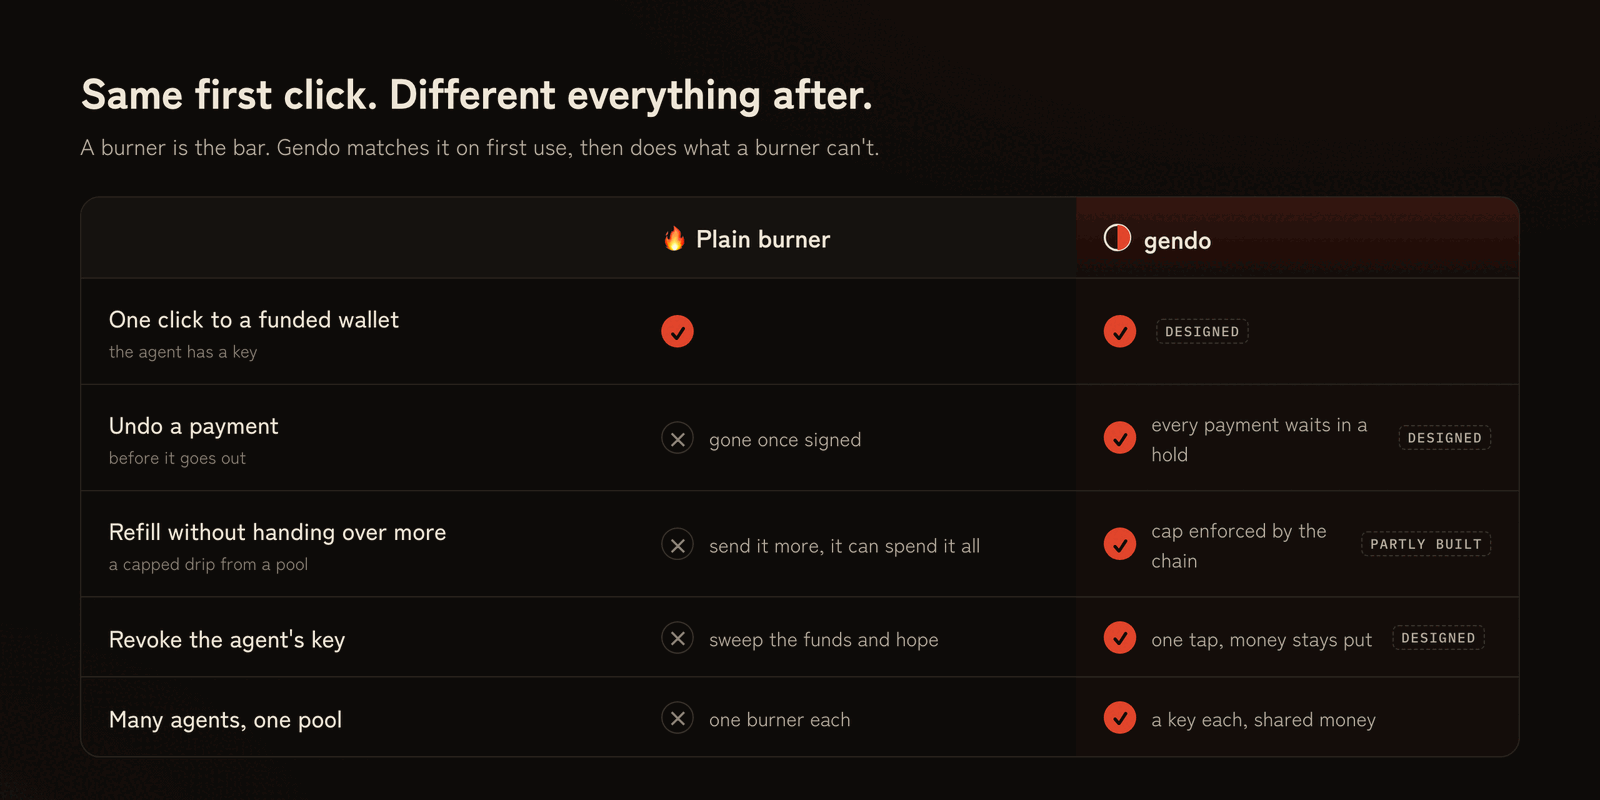
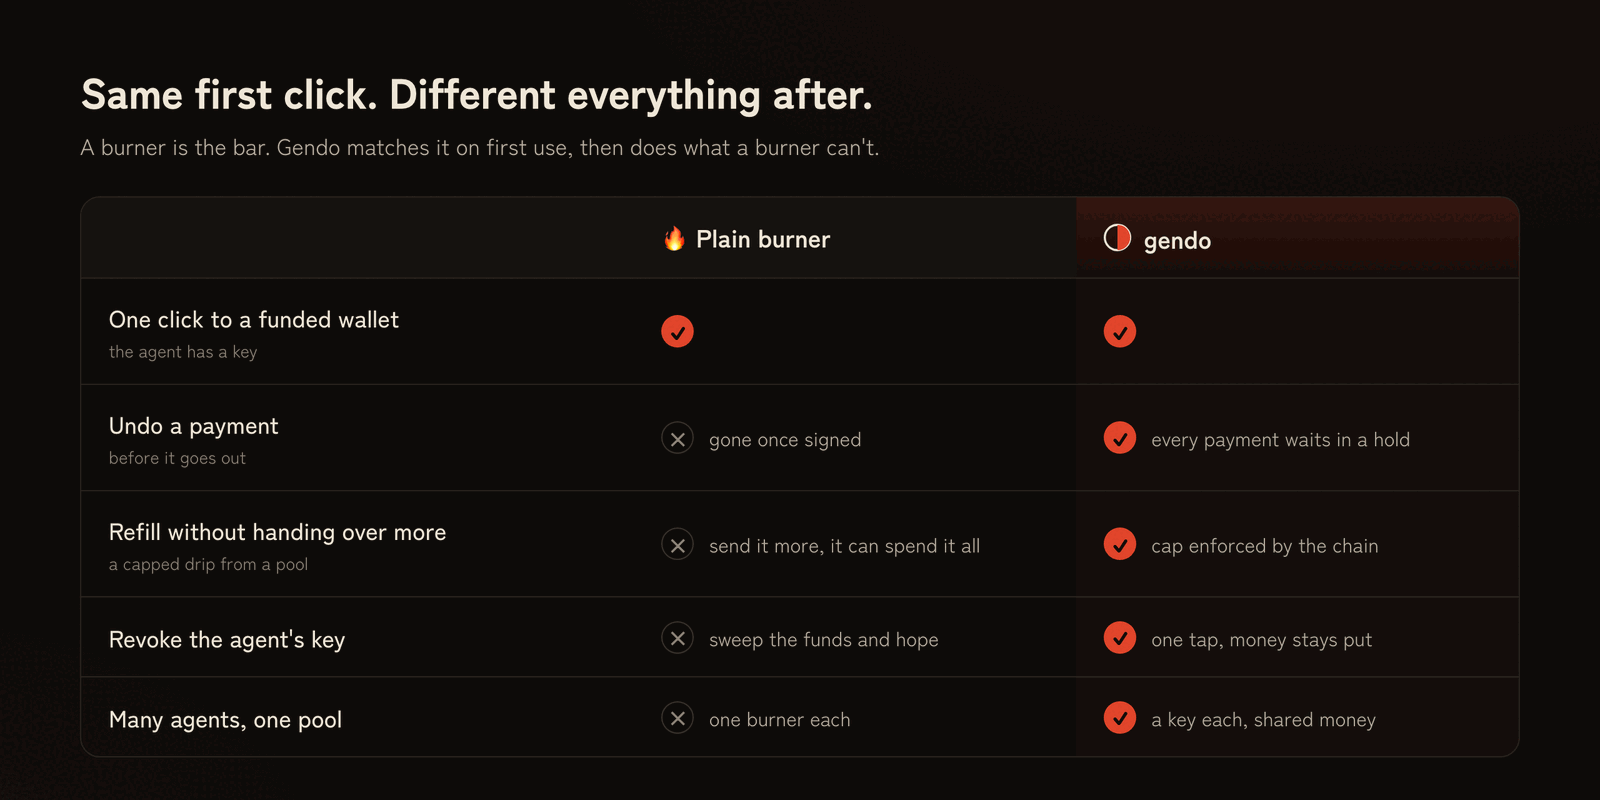
docs: README visuals without mockup labels, middle dots or monospace

diff --git a/README.md b/README.md
@@ -17,7 +17,7 @@ The difference shows up after that, in four things a plain burner can't do:
 - **Revoke.** One tap kills an agent's key. The money stays where it is.
 - **Many agents, one pool.** Each agent gets its own key over the same money, instead of one funded burner per agent.
 
-<p align="center"><img src="assets/readme/burner-vs-gendo.png" alt="Burner vs Gendo. One click to a funded wallet: both (Gendo's is designed). Undo a payment: a burner can't; Gendo holds every payment (designed). Refill without handing over more: a burner can't; Gendo's cap is enforced by the chain (partly built). Revoke the agent's key: a burner can't; Gendo does it in one tap (designed). Many agents, one pool: a burner needs one each; Gendo gives each a key over shared money." width="100%"></p>
+<p align="center"><img src="assets/readme/burner-vs-gendo.png" alt="Burner vs Gendo. One click to a funded wallet: both. Undo a payment: a burner can't; Gendo holds every payment. Refill without handing over more: a burner can't; Gendo's cap is enforced by the chain. Revoke the agent's key: a burner can't; Gendo does it in one tap. Many agents, one pool: a burner needs one each; Gendo gives each a key over shared money." width="100%"></p>
 
 > **Status: redesign in progress. Unaudited, Cardano preprod only.**
 > The code in this repository is the chain-enforced core this is built on: a vault with per-agent spending limits that the Cardano validator enforces. The hold-and-undo flow, the one-click start, revoking without moving funds and the recovery key are designed but **not built yet**. [What exists today](#what-exists-today) lists what is built and tested. Don't put real value behind any of it.
@@ -41,12 +41,12 @@ This section describes the design. [What exists today](#what-exists-today) says 
 2. You give the key to your agent, the way you would a burner's.
 3. The agent can pay straight away.
 
-<p align="center"><img src="assets/readme/one-click.gif" alt="Design mockup: the owner clicks Create with 50 ADA, the wallet is ready, the owner copies the agent's key, and the agent's first payment is sent and settles in ten minutes." width="640"><br><sub>Design mockup. The one-click start isn't built yet.</sub></p>
+<p align="center"><img src="assets/readme/one-click.gif" alt="The owner clicks Create with 50 ADA, the wallet is ready, the owner copies the agent's key, and the agent's first payment is sent and settles in ten minutes." width="640"></p>
 
 There's one owner (you) and one key. You don't pick co-owners, approval counts, budgets, payees or expiry dates. Every payment is held for a few minutes before it goes out, and that's the only rule on day one.
 
 ### Every payment waits in a hold you can cancel
-<p align="center"><img src="assets/readme/undo.gif" alt="Design mockup: the owner's activity feed shows 'Pay 40 ADA to llm-api.example' with a countdown and an Undo button; the owner taps Undo and the 40 ADA goes back to the pool." width="640"><br><sub>Design mockup. Holds and Undo aren't built yet.</sub></p>
+<p align="center"><img src="assets/readme/undo.gif" alt="The owner's activity feed shows 'Pay 40 ADA to llm-api.example' with a countdown and an Undo button; the owner taps Undo and the 40 ADA goes back to the pool." width="640"></p>
 
 The life of a payment:
 ```mermaid
@@ -69,8 +69,8 @@ flowchart LR
   P[("Pool<br/>the agents can't touch it")]
   P -- "capped drip" --> D1["Drip"] --> A1["🤖 research-bot<br/>its own key"]
   P -- "capped drip" --> D2["Drip"] --> A2["🛒 shopper-bot<br/>its own key"]
-  O(["You"]) -. "Undo · Revoke" .-> A1
-  O -. "Undo · Revoke" .-> A2
+  O(["You"]) -. "Undo or revoke" .-> A1
+  O -. "Undo or revoke" .-> A2
   R(["Recovery key<br/>can't spend"]) -. "replaces your key<br/>after a hold you can cancel" .-> O
 ```
 
@@ -120,7 +120,7 @@ Everything here is built and tested on Cardano preprod or the local devnet. The 
 | **Single-owner emergency pause** | ✅ Built. It stops every agent at once |
 | **Revoke** | 🟡 Built, but it moves the agent's money back to the pool. Revoking *without* moving funds isn't built |
 | **The owner web app** ([app.gendo.cash](https://app.gendo.cash)): create a vault, approve changes, connect an agent with a pairing code | 🟡 Built. Its first-use flow is the old one: it asks for owners, approval counts, budgets and payees |
-| **`gendo-agent`** (npm `@gendo-cash/agent`): the agent's wallet as an MCP server that holds its own key, for Claude, Cursor, LM Studio and other MCP apps | 🟡 Built. Its tools still include budget and approval terms (`get_budget`, `request_approval`) |
+| **gendo-agent** (npm @gendo-cash/agent): the agent's wallet as an MCP server that holds its own key, for Claude, Cursor, LM Studio and other MCP apps | 🟡 Built. Its tools still include budget and approval terms (get_budget, request_approval) |
 | **Keyless server:** chain proxy, approvals inbox, pairing, relaying the agent's own payments | ✅ Built |
 | **Minswap adapter:** swaps from the pool, with proceeds forced back to it | 🟡 Built and tested on devnet. Published on preprod; no order has been filled by a real batcher yet |
 | **The hold and Undo, the one-click start, the drip refilling from the pool, revoking without moving funds, the recovery key, the single feed** | ⬜ **Not built** |
@@ -138,13 +138,13 @@ Cardano is the reference implementation and the grant deliverable, not where Gen
 
 ```mermaid
 flowchart TB
-  subgraph core["Hold-and-cancel core · chain-agnostic"]
+  subgraph core["Hold-and-cancel core, chain-agnostic"]
     direction LR
-    H["Pending actions<br/>hold · cancel · release"] --- DR["Drip from a pool"] --- RV["Revoke"] --- RC["Recovery"]
+    H["Pending actions<br/>hold, cancel, release"] --- DR["Drip from a pool"] --- RV["Revoke"] --- RC["Recovery"]
   end
   core --> CA["Cardano<br/>reference implementation<br/>(the grant deliverable)"]
   core -.-> EVM["EVM chains<br/>(planned)"]
-  CA --> AD["DeFi adapters<br/>Minswap first · milestone 2"]
+  CA --> AD["DeFi adapters<br/>Minswap first, milestone 2"]
 ```
 
 ## Reference implementation: the Cardano vault
